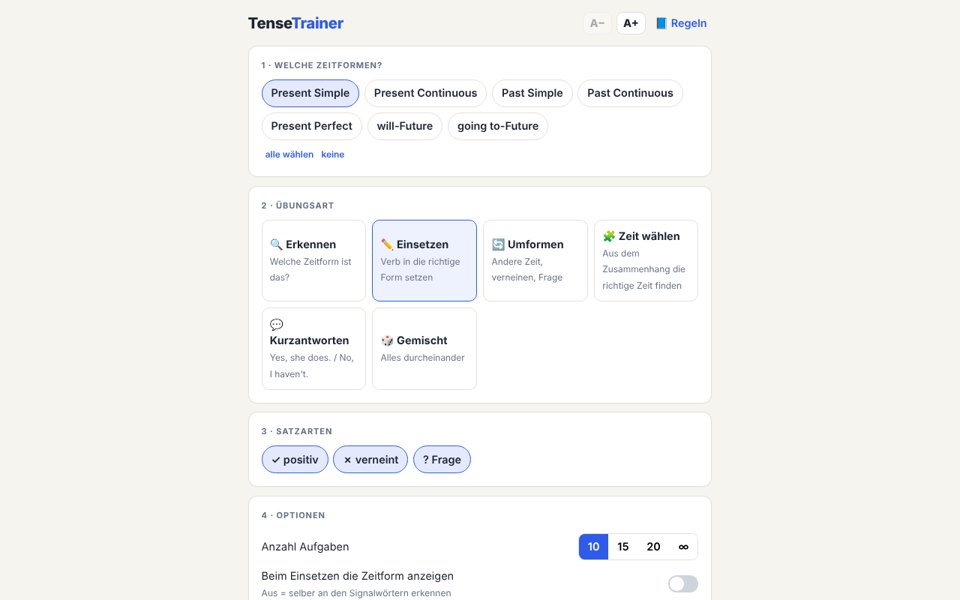
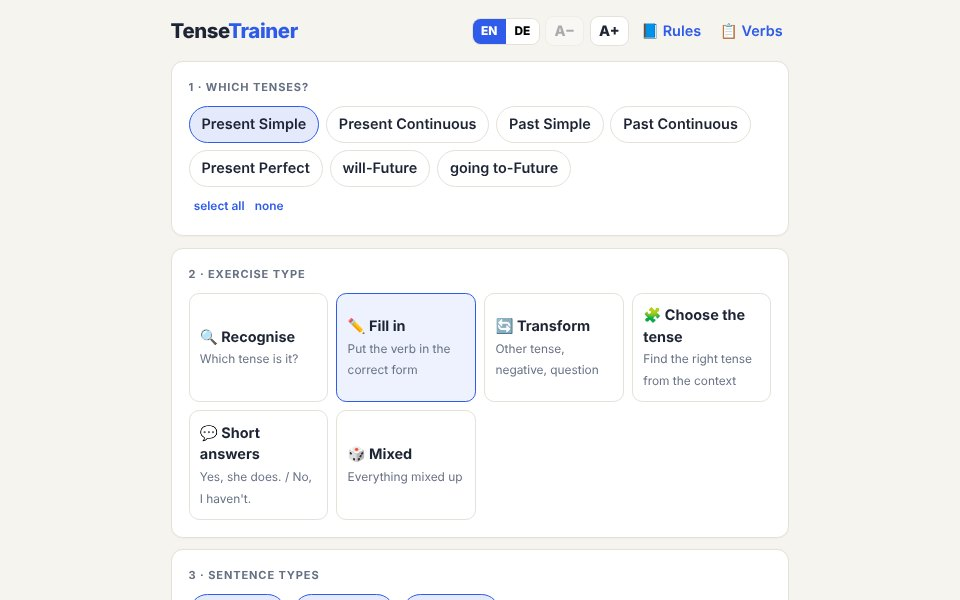
Tense Trainer: Beschreibung und Vorschau für Version 2.0
Claude-Session: https://claude.ai/code/session_01FbAUqtxqqqp61UBGL73Yem

diff --git a/index.html b/index.html
@@ -180,7 +180,7 @@
         <a class="preview" href="https://novarion-desk.github.io/tensetrainer/" tabindex="-1" aria-hidden="true"><img src="img/tense-trainer.jpg" alt="" loading="lazy" width="960" height="600"></a>
         <div class="body">
           <div class="title"><img src="icons/tense-trainer.png" alt=""><h3>Tense Trainer</h3></div>
-          <p class="desc">Englische Zeitformen üben: erkennen, einsetzen, umformen und Kurzantworten. Mit Regelübersicht und direkter Rückmeldung.</p>
+          <p class="desc">Englische Zeitformen üben: erkennen, einsetzen, umformen und Kurzantworten. Mit Regelübersicht, Verbliste mit Suche und direkter Rückmeldung – auf Englisch oder Deutsch.</p>
           <ul class="tags"><li class="t-student">Schülerinnen und Schüler</li><li>Englisch</li><li>Ohne Login</li></ul>
           <div class="actions">
             <a class="btn btn-open" href="https://novarion-desk.github.io/tensetrainer/">Öffnen <svg width="16" height="16" viewBox="0 0 24 24" fill="none" stroke="currentColor" stroke-width="2.2" stroke-linecap="round" stroke-linejoin="round" aria-hidden="true"><path d="M5 12h14"/><path d="M13 6l6 6-6 6"/></svg></a>
